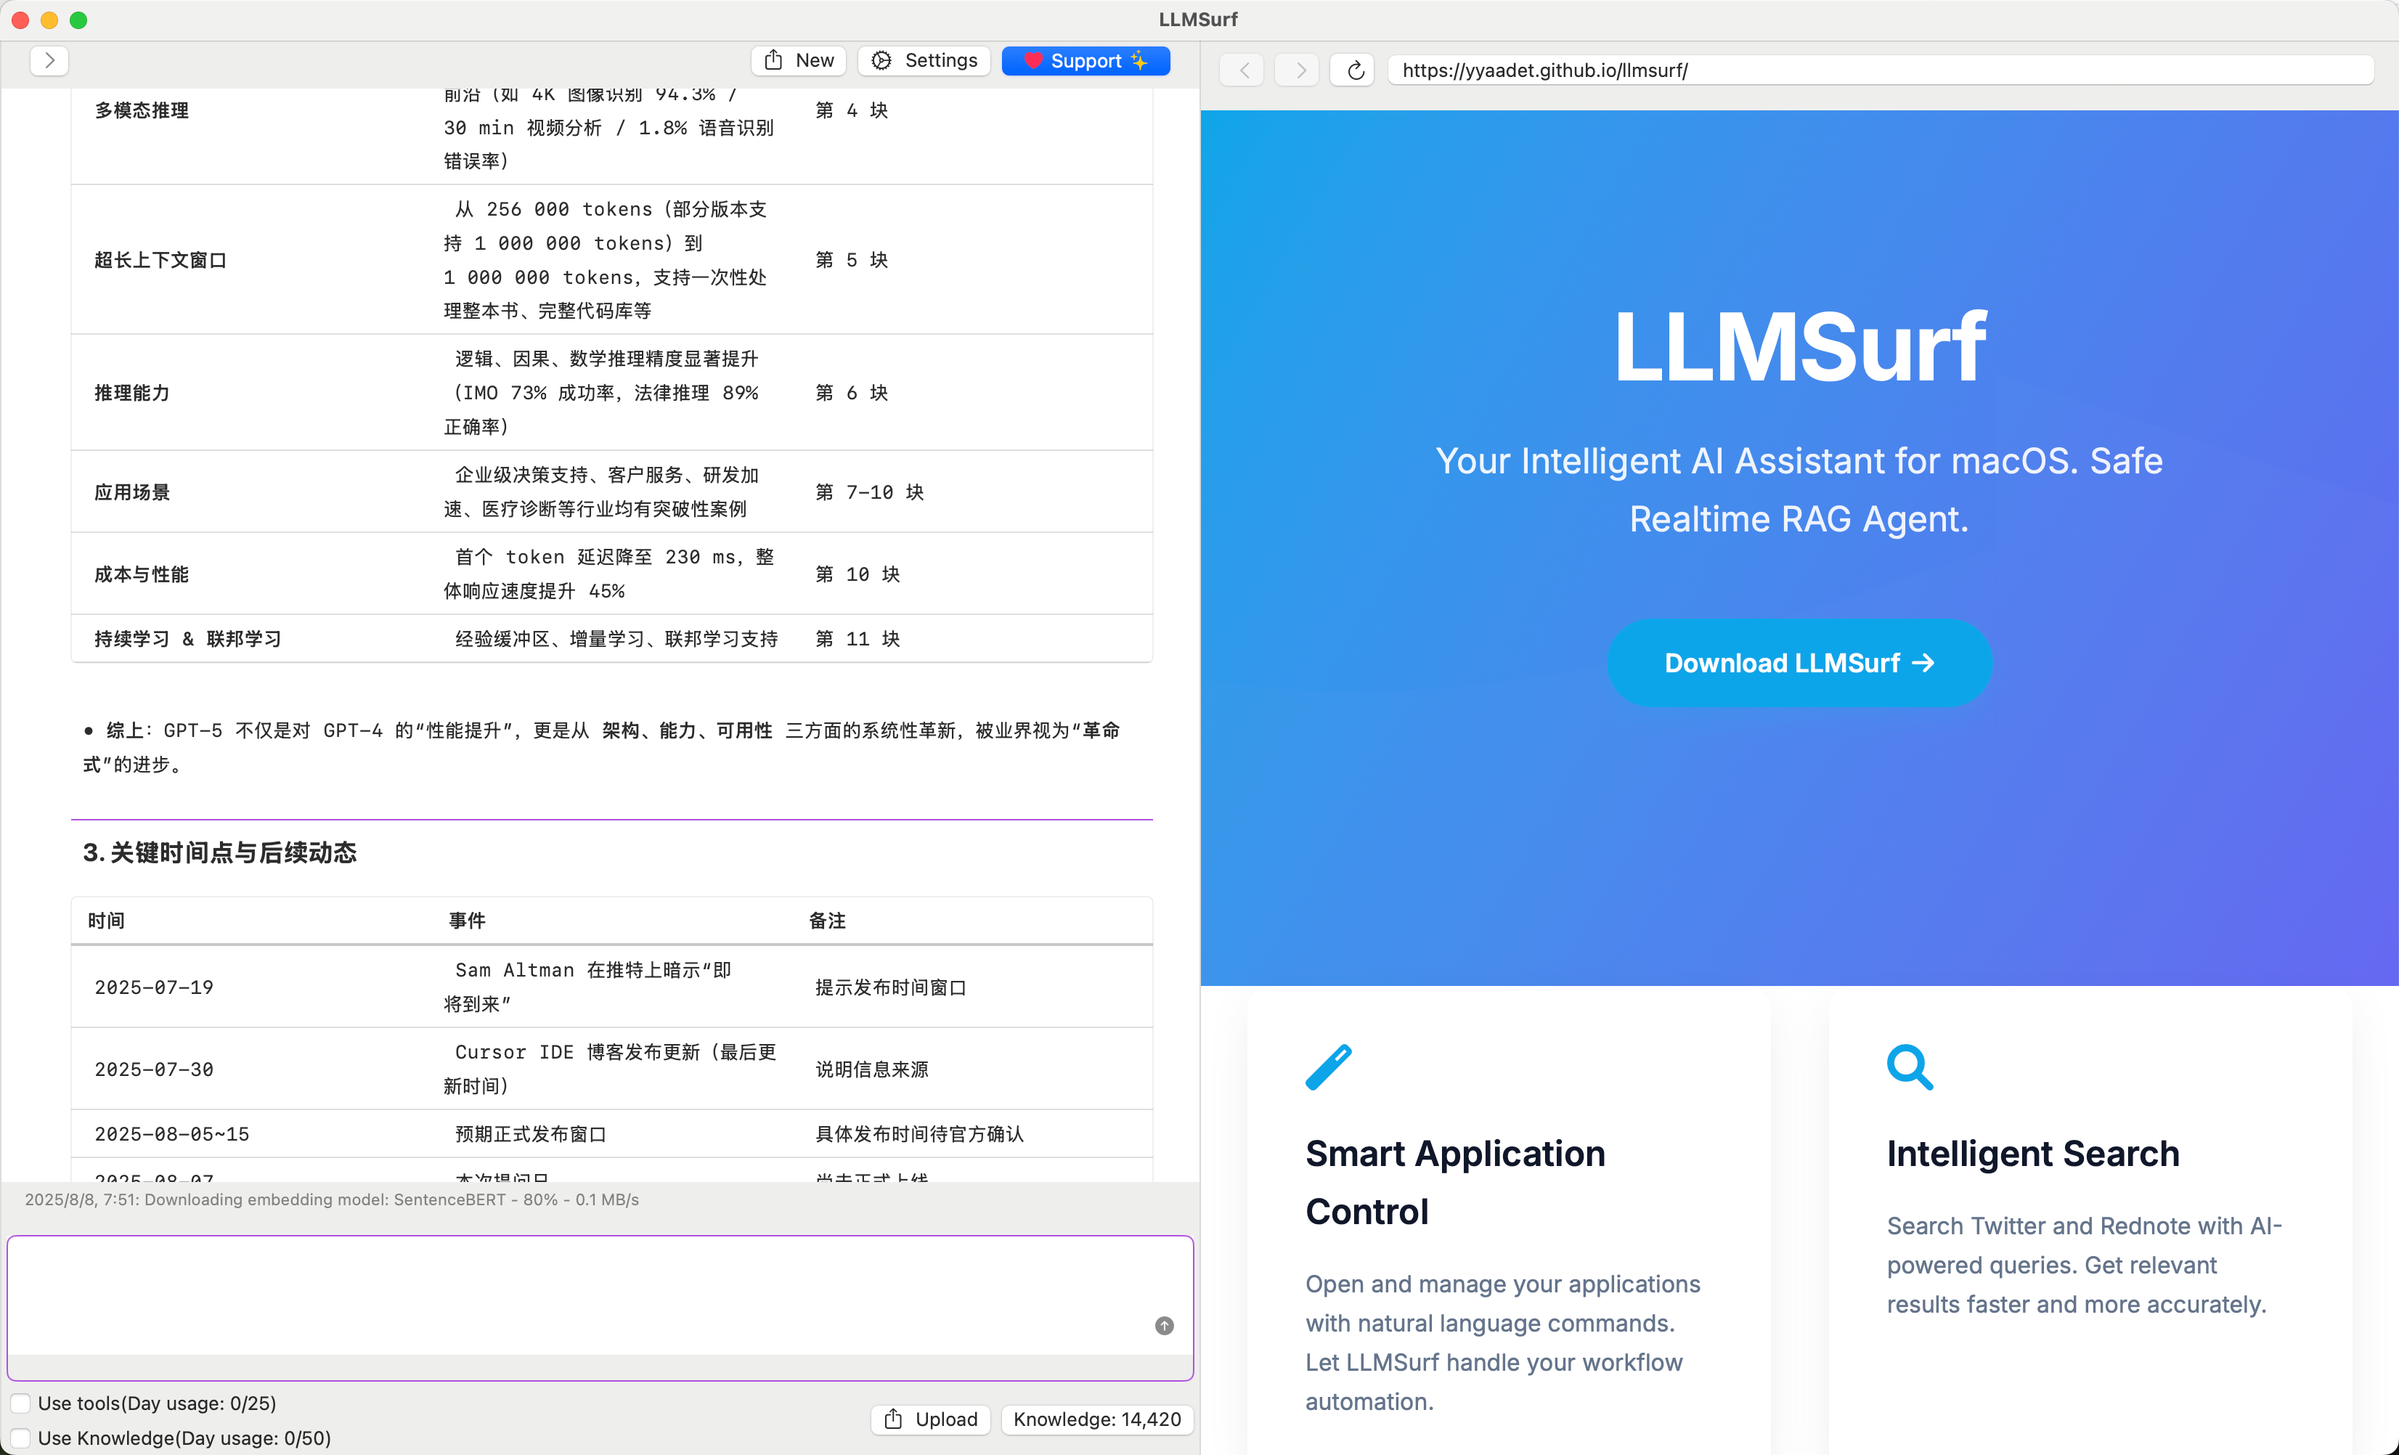
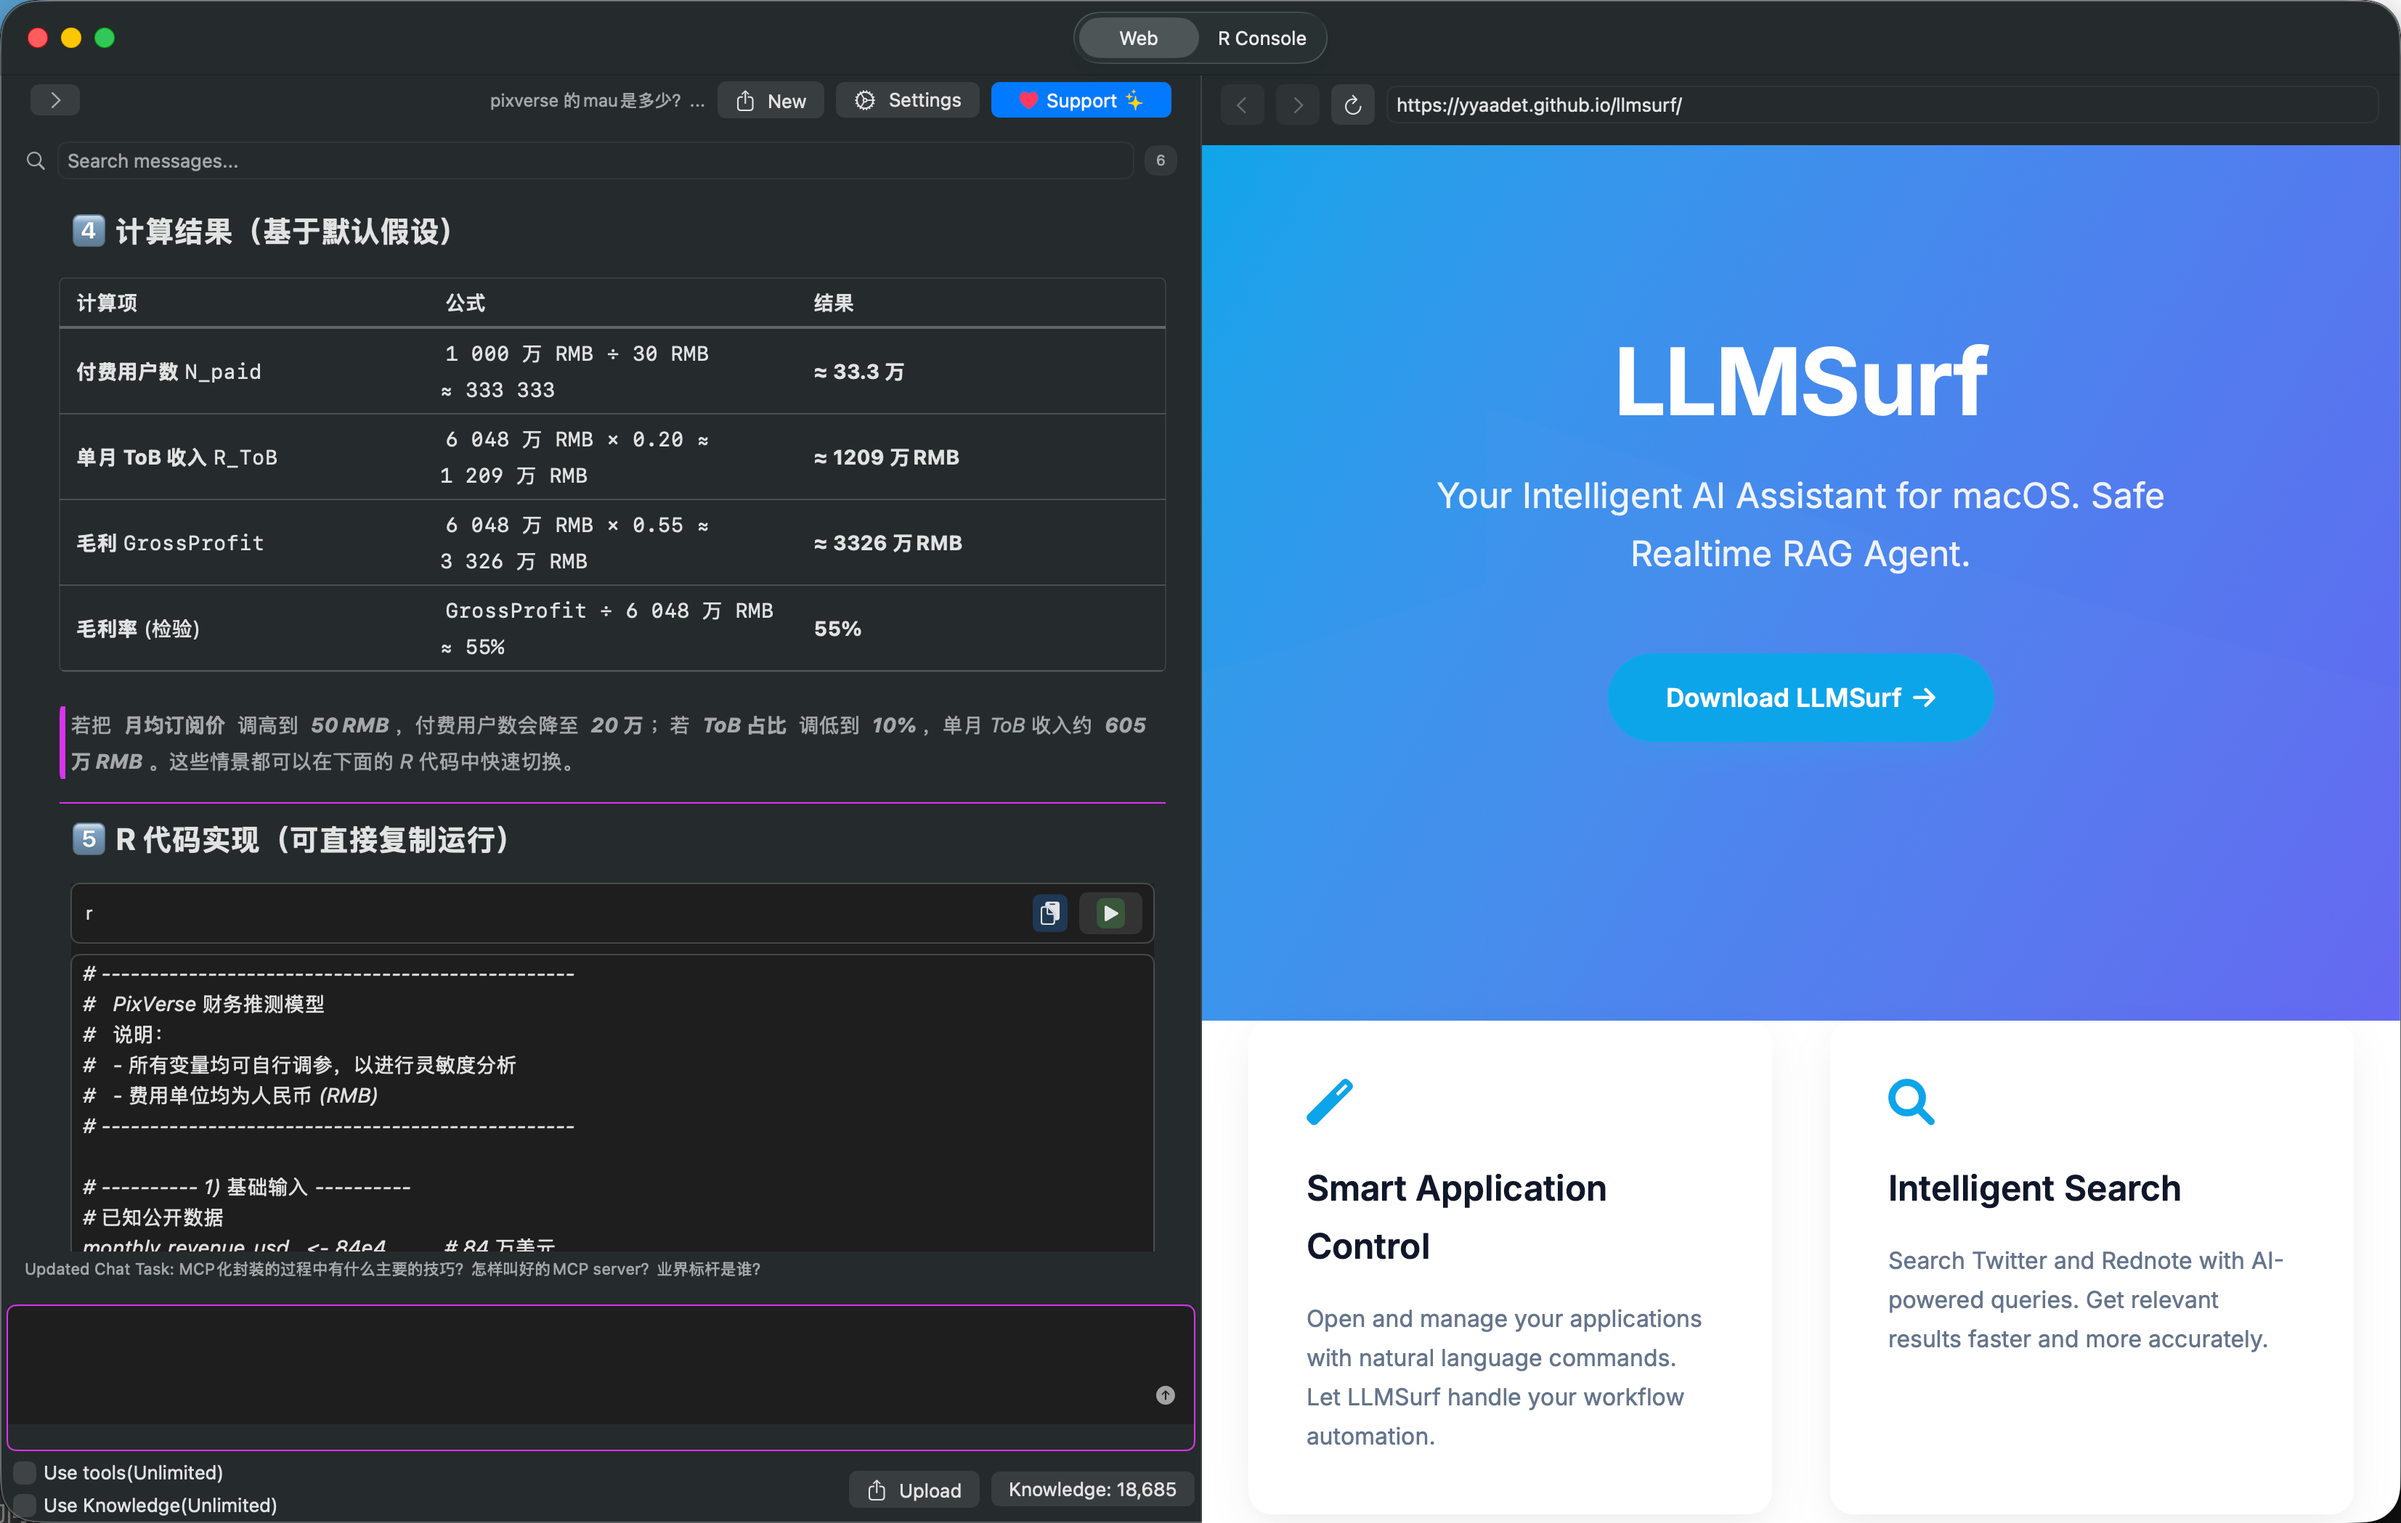
new home page

diff --git a/index.html b/index.html
@@ -546,7 +546,10 @@
     <div class="hero">
         <div class="container">
             <h1>LLMSurf</h1>
-            <p>Your Intelligent AI Assistant for macOS. Safe Realtime RAG Agent.</p>
+            <h3>
+                Runable AI Assistant in macOS
+            </h3>
+            <p>Safty. Embedded R runtime. RAG agent. Native knowledge management.</p>
             <a href="https://github.com/yyaadet/llmsurf/releases" class="cta-button">
                 Download LLMSurf
                 <i class="fas fa-arrow-right"></i>
@@ -558,8 +561,10 @@
         <section class="features">
             <div class="feature-card">
                 <i class="fas fa-magic"></i>
-                <h3>Smart Application Control</h3>
-                <p>Open and manage your applications with natural language commands. Let LLMSurf handle your workflow automation.</p>
+                <h3>Embedded R Runtime</h3>
+                <p>
+                    The app will generate R program for numeric calculations and execute in the app. Let LLM answer more accuracy.
+                </p>
             </div>
             <div class="feature-card">
                 <i class="fas fa-search"></i>
@@ -586,6 +591,9 @@
         <div class="screenshots-container">
             <div class="screenshot">
                 <img src="https://raw.githubusercontent.com/yyaadet/llmsurf/main/screenshots/main.png" alt="LLMSurf Main Interface Screenshot - AI Agent for macOS">
+            </div>
+            <div class="screenshot">
+                <img src="https://raw.githubusercontent.com/yyaadet/llmsurf/main/screenshots/code.png" alt="LLMSurf Main Code Interface Screenshot - AI Agent for macOS">
             </div>
             <div class="screenshot">
                 <img src="https://raw.githubusercontent.com/yyaadet/llmsurf/main/screenshots/knowledge_manage.png" alt="LLMSurf Knowledge management - AI Agent for macOS">

diff --git a/docs/README.md b/docs/README.md
@@ -2,18 +2,18 @@
 
 ![LLMSurf](https://raw.githubusercontent.com/yyaadet/llmsurf/main/images/logo.png)
 
-An AI agent that can perform tasks on your macOS. Safe Realtime RAG Agent. It can open applications, search the twitter(X), rednote(xiaohongshu.com), Reddit and Google, and more.
+An AI agent that can perform tasks on your macOS. Safe Realtime RAG Agent. It can search the twitter(X), rednote(xiaohongshu.com), Reddit, baidu and Google etc.
 
 ## Cases
 
 - Super Researcher
 - Native search engine
 - Native knowledge library
-- Stock market analysis
-- Investment analysis
+- Native R calculations
 
 ## Features
 
+- Embedded R runtime
 - Search the twitter(X), rednote(xiaohongshu.com), Reddit and Google
 - Answer questions with search results or local knowledges, summary and user comment analysis
 - Transform conversation to task. You can run the task with one click.
